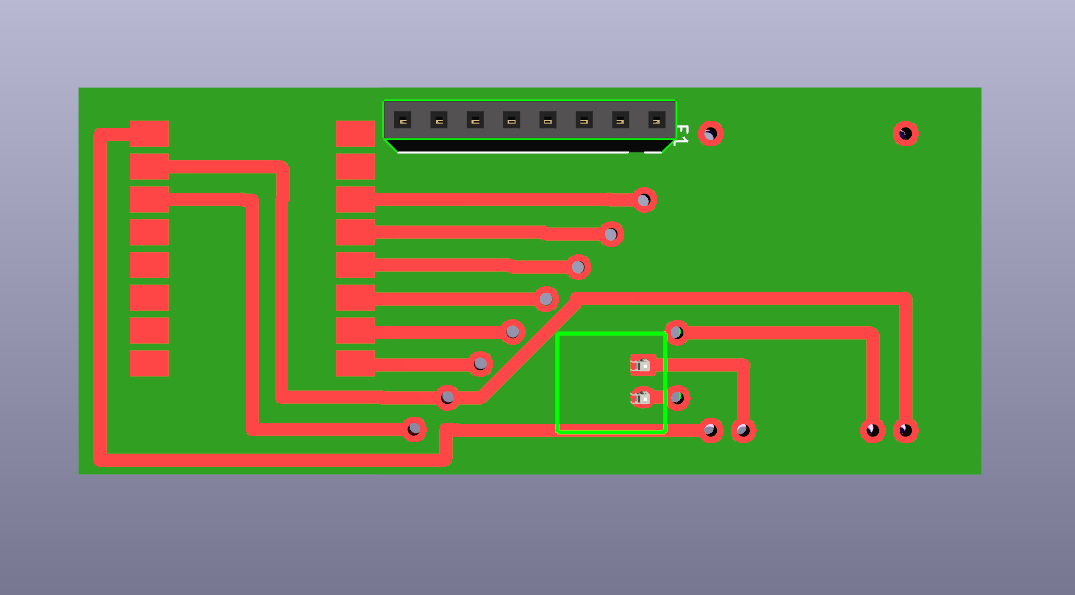
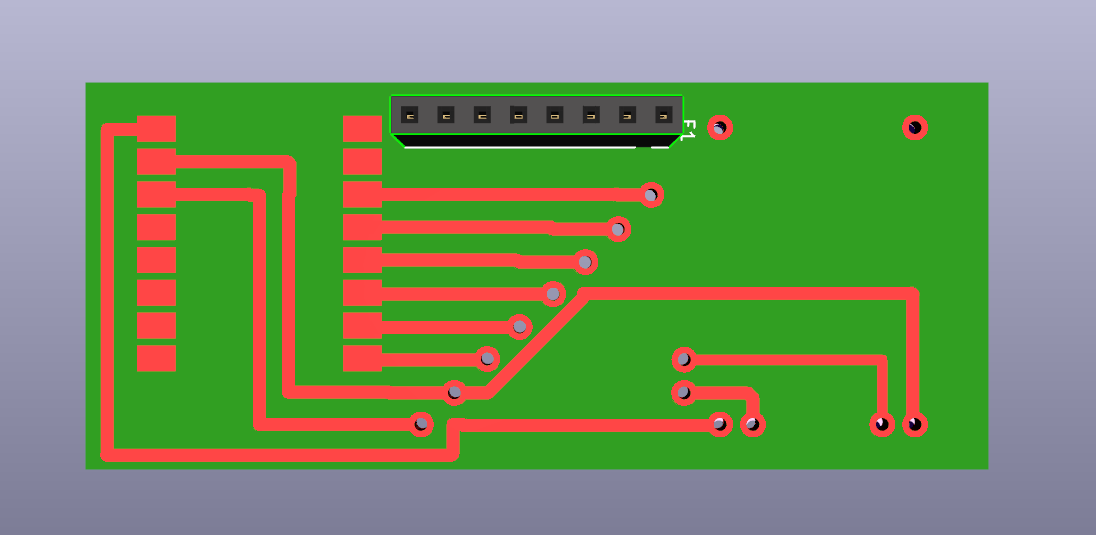
docs: :memo: added lithium battery to BOM and changed design of perfboard

Changed region(s): [[0.0614, 0.1196, 0.9209, 0.8972]]

diff --git a/docs/Thijmen/sprint 4/Design.md b/docs/Thijmen/sprint 4/Design.md
@@ -190,7 +190,7 @@ The 3D render was used to verify component placement and spacing before assembly
 
 ### Perfboard Layout Version 2
 
-After careful consideration, I decided that the USB-C ports need to face the same side. Therefore, a new perfboard layout needs to be designed to accommodate this small change.
+After careful consideration, I decided that the USB-C ports need to face the same side. Therefore, a new perfboard layout needs to be designed to accommodate this small change. I also changed the JST connector footprint to an SM02B-SRSS-TB, because the 850 mAh Li-ion polymer battery uses a JST SHR-02V-S-B connector part.
 
 ![Perfboard layout version 2 design in KiCad PCB Editor](assets/city-sim-e-ink-display-perfboard-editor-v2.png)
 
@@ -235,12 +235,14 @@ These limitations led to the consideration of a custom PCB design.
 
 ## 7. Bill of Materials (BOM)
 
-| ID | Designator | Footprint                             | Quantity | Designation            | Reference |
-| -- | ---------- | ------------------------------------- | -------- | ---------------------- |-------------------|
-| 1  | BT1        | JST_EH_S2B-EH_1x02_P2.50mm_Horizontal | 1        | Battery_Cell           | [Digikey](https://www.digikey.com/en/products/detail/jst-sales-america-inc/S2B-EH/926533) |
-| 2  | E1         | PinSocket_1x08_P2.54mm_Vertical       | 1        | E-ink display HAT      | [Mouser](https://nl.mouser.com/ProductDetail/Harwin/M50-3030842?qs=%252BdQmOuGyFcEVh5gBUNIiFA%3D%3D) |
-| 3  | U1         | MODULE_ESP32-C3_SUPERMINI             | 1        | ESP32-C3_SUPERMINI_SMD | [Tinytronics](https://www.tinytronics.nl/en/development-boards/microcontroller-boards/with-wi-fi/esp32-c3-supermini-plus-development-board) |
-| 4  | U2         | TP4056-Module                         | 1        | TP4056_Module          | [Mouser](https://nl.mouser.com/ProductDetail/Soldered/333014?qs=sGAEpiMZZMs5TKDXZEoCqOJ%252BWtJg0exjNv7rV%2FQFNRhneIj2%2FqDp%252BA%3D%3D) |
+| ID | Designator | Footprint                         | Quantity | Designation                                     | Reference                                                                                                                                   |
+| -- | ---------- | --------------------------------- | -------- | ----------------------------------------------- | ------------------------------------------------------------------------------------------------------------------------------------------- |
+| 1  | U1         | MODULE_ESP32-C3_SUPERMINI         | 1        | ESP32-C3_SUPERMINI_SMD                          | [Tinytronics](https://www.tinytronics.nl/en/development-boards/microcontroller-boards/with-wi-fi/esp32-c3-supermini-plus-development-board) |
+| 2  | U2         | TP4056-Module                     | 1        | TP4056_Module                                   | [Mouser](https://nl.mouser.com/ProductDetail/Soldered/333014?qs=sGAEpiMZZMs5TKDXZEoCqOJ%252BWtJg0exjNv7rV%2FQFNRhneIj2%2FqDp%252BA%3D%3D)   |
+| 3  | BT1        | SM02B-SRSS-TB                     | 1        | Battery Connector                               | [Mouser](https://nl.mouser.com/ProductDetail/JST-Commercial/SM02B-SRSS-TBLF-SN?qs=QpmGXVUTftG1n4Jj4cR4Rg%3D%3D)                             |
+| 4  | B1         | LiPo Battery                      | 1        | 3.7 V LiPo Battery (Connector: JST SHR-02V-S-B) | [Mouser](https://nl.mouser.com/ProductDetail/TinyCircuits/ASR00036?qs=byeeYqUIh0Mizxtsp6GM5A%3D%3D)                                         |
+| 5  | E1         | PinSocket_1x08_P2.54mm_Vertical   | 1        | E-ink Display HAT                               | [Mouser](https://nl.mouser.com/ProductDetail/Harwin/M50-3030842?qs=%252BdQmOuGyFcEVh5gBUNIiFA%3D%3D)                                        |
+| 6  | PCB1       | 3 × 7 cm perfboard, 2.54 mm pitch | 1        | Perfboard                                       | [KIWI electronics](https://www.kiwi-electronics.com/en/prototyping-board-3x7cm-2-54mm-pitch-7428)                                           |
 
 ---
 
